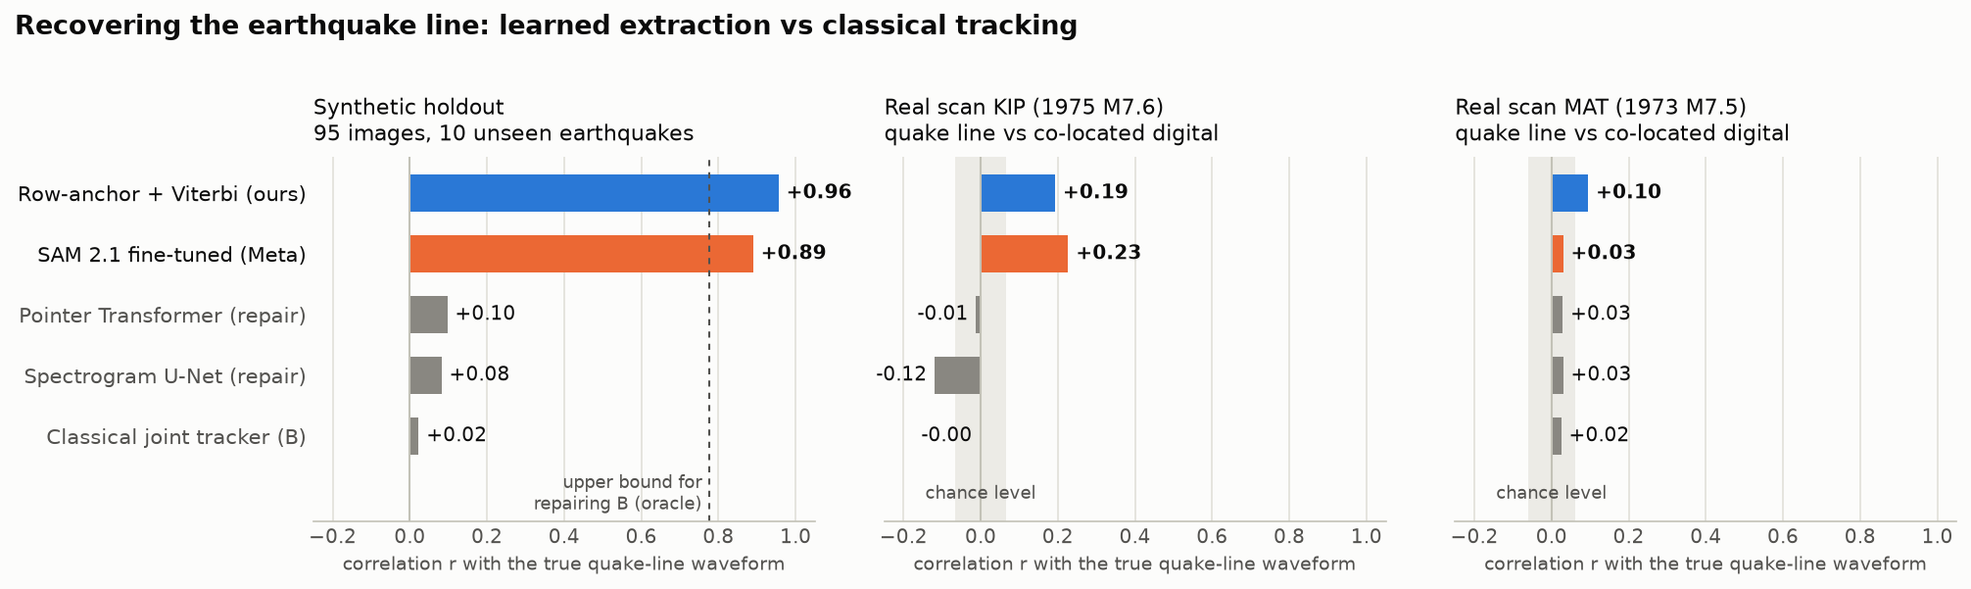
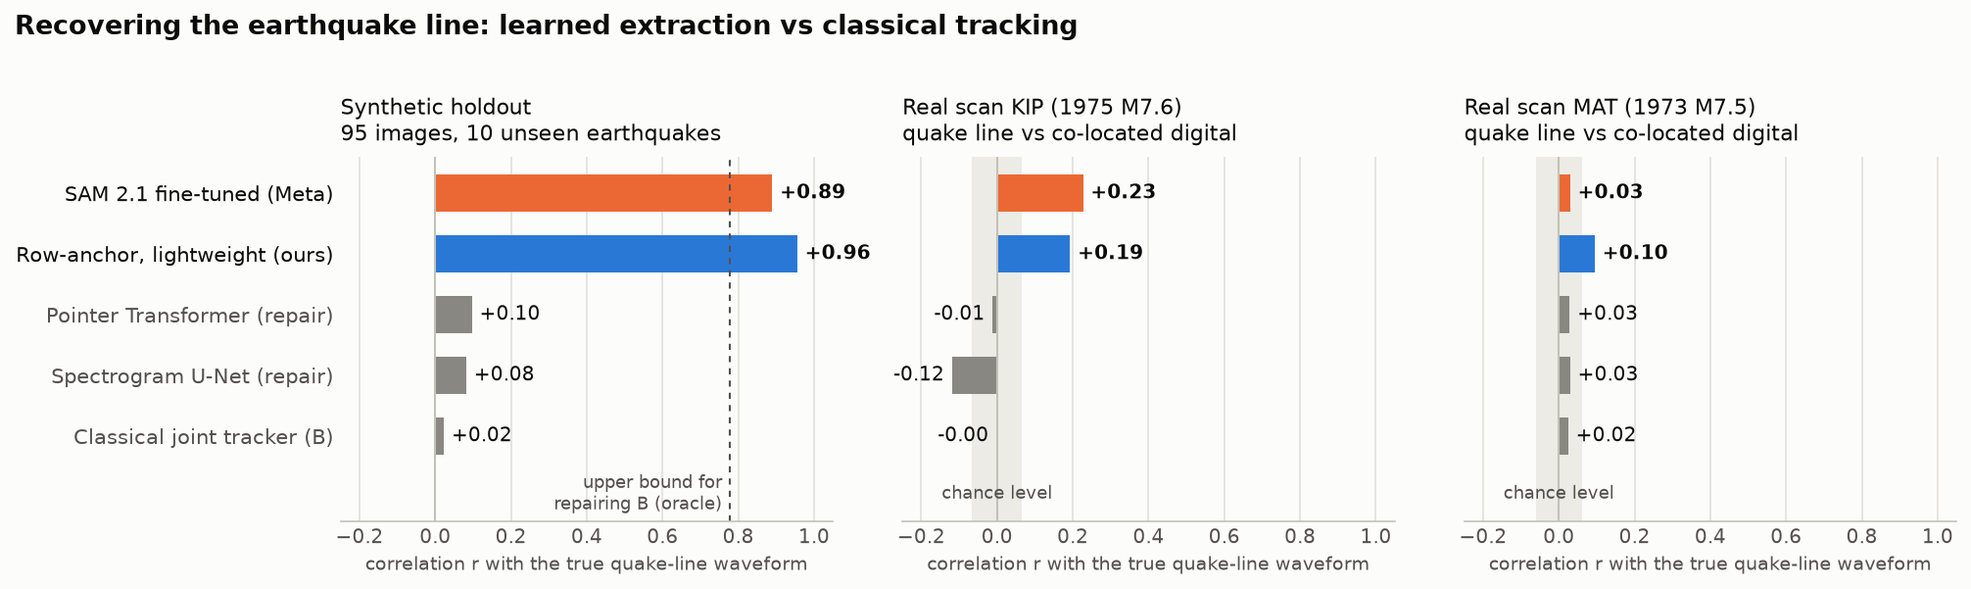
README: lead with Meta models; SAM 3 / 3.1 wording
Put fine-tuned SAM 2.1 first in the hero, tables and charts, present the
row-anchor model as the lightweight second opinion whose disagreements the
Glimmer verifier will judge, and write the planned fine-tune as SAM 3 / 3.1
(SAM 3's single-image point-prompt path; 3.1 compared later).

Claude-Session: https://claude.ai/code/session_01D61mUAeaoMuS9bQ98T1FXu

diff --git a/tools/make_figures.py b/tools/make_figures.py
@@ -22,7 +22,7 @@ THEMES = {
     "dark": {"surface": "#1a1a19", "text": "#f0efec", "text2": "#c3c2b7", "muted": "#898781", "grid": "#2c2c2a",
              "axis": "#383835", "ra": "#3987e5", "sam": "#d95926", "glim": "#199e70", "band": "#262624"},
 }
-METHODS = [("row_anchor", "Row-anchor + Viterbi (ours)", "ra"), ("sam21", "SAM 2.1 fine-tuned (Meta)", "sam"),
+METHODS = [("sam21", "SAM 2.1 fine-tuned (Meta)", "sam"), ("row_anchor", "Row-anchor, lightweight (ours)", "ra"),
            ("repair_seq", "Pointer Transformer (repair)", "muted"), ("repair_spec", "Spectrogram U-Net (repair)", "muted"),
            ("B", "Classical joint tracker (B)", "muted")]
 
@@ -86,7 +86,7 @@ def chart_amplitude(S, mode):
     t = THEMES[mode]
     syn = S["synthetic_holdout_quake_line"]
     gains = [1, 2, 4, 6, 8]
-    series = [("row_anchor", "Row-anchor + Viterbi", "ra", "o"), ("sam21", "SAM 2.1 fine-tuned", "sam", "s"),
+    series = [("sam21", "SAM 2.1 fine-tuned (Meta)", "sam", "s"), ("row_anchor", "Row-anchor, lightweight (ours)", "ra", "o"),
               ("B", "Classical joint tracker (B)", "muted", "D")]
     fig, axes = plt.subplots(1, 2, figsize=(12, 3.9), facecolor=t["surface"])
     for ax, key, ylab, lim in ((axes[0], "r", "quake-line correlation r", (-0.05, 1.05)),
@@ -114,7 +114,7 @@ def chart_amplitude(S, mode):
     plt.close(fig)
 
 
-BUDGET = [("SAM 3.1 LoRA fine-tunes x3 + evaluation", "A100 80 GB, ~9 GPU-h", 27, "sam"),
+BUDGET = [("SAM 3 / 3.1 LoRA fine-tunes x3 + evaluation", "A100 80 GB, ~9 GPU-h", 27, "sam"),
           ("Muse Glimmer QLoRA: identity verifier + film-chip reader", "H100 80 GB, ~11 GPU-h", 48, "glim"),
           ("Ablations and final evaluation", "A100 80 GB, ~8 GPU-h", 24, "muted"),
           ("Row-anchor sim-to-real sweeps", "our local GPUs", 0, "muted")]
@@ -137,7 +137,7 @@ def chart_budget(mode):
     ax.set_yticks([])
     ax.set_xticks([0, 25, 50, 75, 100], ["$0", "$25", "$50", "$75", "$100"])
     total = sum(b[2] for b in BUDGET)
-    ax.set_title(f"Planned use of a \\$100 Modal credit (about \\${total}): fine-tuning Meta's SAM 3.1 and Muse Glimmer", fontsize=12.5,
+    ax.set_title(f"Planned use of a \\$100 Modal credit (about \\${total}): fine-tuning Meta's SAM 3 / 3.1 and Muse Glimmer", fontsize=12.5,
                  color=t["text"], loc="left", pad=10, fontweight="bold", x=-0.62)
     fig.tight_layout()
     fig.savefig(IMG / f"chart_modal_budget_{mode}.png", dpi=150, bbox_inches="tight", facecolor=t["surface"])

diff --git a/README.ko.md b/README.ko.md
@@ -8,14 +8,14 @@
 **엉킨 아날로그 지진기록을 학습형 궤적 추출과 Meta SAM으로 다시 지진 파형으로 되살립니다.**
 
 <p align="center">
-  <img src="docs/img/hero_rowanchor_vs_classical.png" width="920" alt="지진 줄이 이웃 줄과 교차하는 합성 WWSSN 필름. 학습 모델은 따라가고 고전 추적기는 평평해진다">
+  <img src="docs/img/sam21_holdout_example.png" width="920" alt="합성 WWSSN 필름에서 교차점을 지나며 지진 줄을 따라가는 미세조정 Meta SAM 2.1. 고전 추적기는 평평해진다">
 </p>
-<p align="center"><sub>새 홀드아웃 예시입니다. 모델이 한 번도 보지 못한 지진(2010-04-06, M7.8)의 실제 II.RAYN 기록으로 렌더링한 합성 WWSSN 장주기 필름이고, 최대 흔들림은 줄 간격 8개입니다.
-<b>초록</b>: 정답. <b>빨강</b>: 우리 행 기준점 모델. <b>파랑</b>: 가장 좋은 고전 추적기. 지진 줄이 이웃 줄과 교차하기 시작하면 바로 줄을 잃습니다.</sub></p>
+<p align="center"><sub>새 홀드아웃 예시입니다. <b>미세조정한 Meta SAM 2.1</b>을, 모델이 한 번도 보지 못한 지진(2009-10-07, M7.7)의 실제 IU.MAJO 기록으로 렌더링한 합성 WWSSN 장주기 필름에 적용했습니다. 최대 흔들림은 줄 간격 4개입니다.
+<b>초록</b>: 정답. <b>빨강</b>: SAM 2.1. 교차점을 지나도 줄을 잃지 않고, 남은 오류는 가장 가파른 획의 꼭대기가 잘리는 것입니다. <b>파랑</b>: 가장 좋은 고전 추적기. 지진 줄이 이웃 줄과 교차하기 시작하면 바로 줄을 잃습니다.</sub></p>
 
 > [!IMPORTANT]
 > **Modal 크레딧으로 할 수 있게 되는 것: Meta 오픈 웨이트 모델 두 개가 파이프라인의 핵심 경로로 들어옵니다.**
-> - **SAM 3.1을 LoRA로 미세조정**해 핵심 궤적 추출기로 씁니다. 미세조정한 SAM 2.1이 시뮬레이션에서 이미 지진 줄 실패율을 55%에서 12%로 줄였습니다.
+> - **SAM 3 / 3.1을 LoRA로 미세조정**해 핵심 궤적 추출기로 씁니다. 미세조정한 SAM 2.1이 시뮬레이션에서 이미 지진 줄 실패율을 55%에서 12%로 줄였습니다.
 > - **Muse Glimmer(30B)를 QLoRA로 미세조정**해 모든 교차점의 줄 식별 검증기이자 필름 라벨 판독기로 씁니다. 벤치마크에서 자동으로 만든 라벨 예제로 무제한 학습합니다.
 > - 두 모델 모두 우리 로컬 GPU(M5 Pro 24 GB, RTX 5070 Ti 16 GB)에 들어가지 않습니다. 계획상 **$100 크레딧 중 약 $99**를 A100·H100 시간에 씁니다. **[전체 계획과 예산](#modal-크레딧으로-할-일)**을 참고하세요.
 
@@ -23,18 +23,18 @@
 
 - **문제.** 1962–1978년 WWSSN(세계 표준 지진 관측망)은 전 세계의 큰 지진을 사진 필름에 기록했습니다. USGS는 2025년에 필름칩 스캔을 CC0로 공개했습니다. 그런데 자동 디지털화는 신호가 가장 중요한 곳에서 무너집니다. 지진 줄이 이웃 줄 여러 개를 가로질러 수백 번 교차하고, 가파른 획은 필름에서 흐려지기 때문입니다.
 - **벤치마크.** 큰 지진 32개(M7.5–8.8)의 실제 기록으로, 줄마다 정확한 정답이 있는 합성 WWSSN 장주기 필름을 만들었습니다. 기하는 실제 필름에 맞췄습니다. 1 px/초, 한 줄 1시간, 줄 간격당 38초입니다(실제 필름은 40–47초). 같은 자리에 디지털 관측소가 있던 실제 필름 스캔 2장도 찾아, 실제 정답으로 씁니다.
-- **시뮬레이션 결과.** 새 홀드아웃(95장, 처음 보는 지진 10개, 방법마다 고정 후 한 번만 평가)에서 두 학습 모델이 지진 줄을 복원합니다. 지표는 지진 줄 상관계수 r과 실패율입니다.
-  - 우리 **행 기준점 모델**: r **0.96**, 실패율 2.0%
-  - **미세조정한 Meta SAM 2.1**: r **0.89**, 실패율 12.0%
+- **시뮬레이션 결과.** 새 홀드아웃(95장, 처음 보는 지진 10개, 방법마다 고정 후 한 번만 평가)에서 학습 모델이 지진 줄을 복원합니다. 지표는 지진 줄 상관계수 r과 실패율입니다.
+  - **미세조정한 Meta SAM 2.1**: r **0.89**, 실패율 **12.0%** (고전 추적기 55%)
+  - SAM의 독립적인 두 번째 의견인 가벼운 **행 기준점 모델**(매개변수 88만 개): r 0.96, 실패율 2.0%
   - 가장 좋은 고전 추적기: r 0.02, 실패율 55%
   - 고전 추적 결과를 사후에 고치는 방식은 스펙트로그램 U-Net을 포함해 모두 실패했습니다(r 약 0.1).
 - **실제 필름의 솔직한 현황.** 실제 지진 줄은 **아직 풀지 못했습니다.** KIP r 0.19–0.23, MAT r 0.03–0.10이고, 우연 수준은 약 0.06입니다. 진폭이 중간인 줄에서는 MAT에서 이미 학습 모델이 고전 추적기를 앞섭니다(r 0.57–0.63 대 0.01). 남은 차이는 합성과 실제의 겉모습 차이로 보고 있고, 이를 줄이는 것이 다음 단계입니다([Modal 크레딧으로 할 일](#modal-크레딧으로-할-일) 참고).
 - **Meta 모델.**
   - Muse Spark 1.3(Meta Model API)은 도구를 쓰는 지진학자 에이전트이자 교차 판정자로 실행했습니다. 단순 규칙을 이기지 못했다는 결과도 그대로 보고합니다.
   - SAM 3.1(Meta Model API)은 제로샷으로 시험했습니다. 선이 빽빽하게 닿는 구간에서는 인스턴스를 하나도 찾지 못해, 미세조정으로 방향을 잡았습니다.
-  - SAM 2.1 오픈 웨이트를 미세조정한 모델이 위 두 학습 추출기 중 하나입니다.
+  - SAM 2.1 오픈 웨이트를 미세조정한 모델이 위의 주 학습 추출기입니다.
   - **다음 단계, Modal 크레딧으로:**
-    - **SAM 3.1**을 핵심 추출기로 미세조정합니다.
+    - **SAM 3 / 3.1**을 핵심 추출기로 미세조정합니다.
     - **Muse Glimmer**(30B, 오픈 웨이트)를 QLoRA로 미세조정해, 교차점의 줄 식별 검증기와 필름 라벨 판독기로 씁니다.
     - 두 역할 모두 파이프라인의 핵심입니다([Modal 크레딧으로 할 일](#modal-크레딧으로-할-일) 참고).
 
@@ -47,8 +47,8 @@
 
 | 방법 (지진 줄) | 합성 홀드아웃 r | 합성 실패율 % | 실제 KIP r | 실제 MAT r |
 |---|---|---|---|---|
-| **행 기준점 + 비터비** (우리 방법, 매개변수 88만 개) | **0.96** | **2.0** | 0.19 | **0.10** |
 | **SAM 2.1 hiera-tiny 미세조정** (Meta 오픈 웨이트) | 0.89 | 12.0 | **0.23** | 0.03 |
+| **행 기준점 + 비터비** (가벼운 두 번째 의견 모델, 매개변수 88만 개) | **0.96** | **2.0** | 0.19 | **0.10** |
 | B의 경로를 고치는 포인터 Transformer | 0.10 | 22.5 | −0.01 | 0.03 |
 | B의 경로를 고치는 스펙트로그램 U-Net | 0.08 | 22.5 | −0.12 | 0.03 |
 | 고전 다중 추적기 (B, 학습 없는 방법 중 최고) | 0.02 | 55.0 | −0.00 | 0.02 |
@@ -74,9 +74,9 @@
 두 학습 모델은 진폭이 줄 간격 8개까지 커져도 r 0.80 이상을 유지합니다. 고전 추적기는 어떤 진폭에서도 파형을 복원하지 못합니다(r 0.08 이하).
 
 <p align="center">
-  <img src="docs/img/sam21_holdout_example.png" width="760" alt="홀드아웃 기록에서 지진 줄을 따라가는 미세조정 SAM 2.1">
+  <img src="docs/img/hero_rowanchor_vs_classical.png" width="760" alt="홀드아웃 기록에서 줄 간격 8개 흔들림을 따라가는 가벼운 행 기준점 모델">
 </p>
-<p align="center"><sub>홀드아웃 기록에서 미세조정한 SAM 2.1(2009-10-07 M7.7, IU.MAJO, 줄 간격 4개). 초록: 정답, 빨강: SAM 2.1, 파랑: 고전 추적기. SAM은 교차점을 지나도 줄을 잃지 않습니다. 남은 오류는 가장 가파른 획의 꼭대기가 잘리는 것입니다.</sub></p>
+<p align="center"><sub>독립적인 두 번째 의견인 가벼운 행 기준점 모델이 줄 간격 8개 흔들림을 따라가는 모습입니다(2010-04-06 M7.8, II.RAYN). 초록: 정답, 빨강: 행 기준점, 파랑: 고전 추적기. SAM과 행 기준점 모델이 엇갈리는 곳이 바로 Glimmer 검증기가 판정할 곳입니다.</sub></p>
 
 ## 왜 어려운가: 그림 한 장
 
@@ -94,14 +94,14 @@
 <p align="center"><sub>마쓰시로(MAT) 관측소의 실제 WWSSN 장주기 수직 성분 필름입니다. 1973-12-28 M7.5 바누아투 지진이며, USGS WWSSN 시범 스캔 사업의 EarthScope 필름칩 제품입니다. 이 제품은 USGS CC0 공개본의 일부로 문서화되어 있지만, 파일 단위로 대조하지는 않았습니다. 정답은 EarthScope FDSN의 HG.MAT 자료입니다. 위: 추출 경로를 겹친 스캔(빨강: 행 기준점, 파랑: 고전 B, 주황: DP 정렬 도구). 아래: 같은 자리 HGLP 디지털 관측소의 대역 통과 정답(검정)과 추출 결과.
 본진 줄의 참 흔들림은 줄 간격 4–6개이고, 모델은 그 일부만 따라갑니다.</sub></p>
 
-| 실제 스캔, 줄 종류별 r | 행 기준점 | SAM 2.1 미세조정 | 고전 B | DP 정렬 도구 |
+| 실제 스캔, 줄 종류별 r | SAM 2.1 미세조정 | 행 기준점 | 고전 B | DP 정렬 도구 |
 |---|---|---|---|---|
-| MAT 지진 줄 (14) | **0.10** | 0.03 | 0.02 | −0.04 |
-| MAT 이웃 줄 (13, 15) | 0.04 | −0.04 | 0.02 | **0.08** |
-| MAT 다른 활성 줄 (7줄) | **0.63** | 0.57 | 0.01 | 0.49 |
-| KIP 지진 줄 (16) | 0.19 | **0.23** | −0.00 | 0.09 |
-| KIP 이웃 줄 (15, 17) | **0.17** | 0.12 | 0.02 | 0.14 |
-| KIP 다른 활성 줄 (5줄) | 0.18 | 0.15 | 0.10 | **0.32** |
+| MAT 지진 줄 (14) | 0.03 | **0.10** | 0.02 | −0.04 |
+| MAT 이웃 줄 (13, 15) | −0.04 | 0.04 | 0.02 | **0.08** |
+| MAT 다른 활성 줄 (7줄) | 0.57 | **0.63** | 0.01 | 0.49 |
+| KIP 지진 줄 (16) | **0.23** | 0.19 | −0.00 | 0.09 |
+| KIP 이웃 줄 (15, 17) | 0.12 | **0.17** | 0.02 | 0.14 |
+| KIP 다른 활성 줄 (5줄) | 0.15 | 0.18 | 0.10 | **0.32** |
 
 실제 필름 성능을 막는다고 보는 요인입니다. 아직 가설이며, 지금 시험하고 있습니다.
 1. 실제 필름에서는 가파른 획이 거의 보이지 않습니다. 우리 렌더러가 그리는 것보다 흐립니다.
@@ -112,19 +112,19 @@
 
 <picture>
   <source media="(prefers-color-scheme: dark)" srcset="docs/img/chart_modal_budget_dark.png">
-  <img src="docs/img/chart_modal_budget_light.png" alt="$100 Modal 크레딧 사용 계획: SAM 3.1 $27, Glimmer $48, 평가 $24, 로컬 반복 학습 $0">
+  <img src="docs/img/chart_modal_budget_light.png" alt="$100 Modal 크레딧 사용 계획: SAM 3 / 3.1 $27, Glimmer $48, 평가 $24, 로컬 반복 학습 $0">
 </picture>
 
-| | **SAM 3.1 미세조정** | **Muse Glimmer 미세조정** |
+| | **SAM 3 / 3.1 미세조정** | **Muse Glimmer 미세조정** |
 |---|---|---|
-| **파이프라인에서의 역할** | 모든 줄의 핵심 궤적 추출기. 행 기준점 모델과 앙상블합니다. | (1) **줄 식별 검증기**: 추출기들이 엇갈리는 교차점마다 진짜 경로를 고르거나, 사람 검토가 필요하다고 표시합니다. (2) **필름 라벨 판독기**: 관측소, 날짜, 시작 시각, 시계 보정을 읽어 시간 정렬의 출발점으로 씁니다. |
-| **방법** | SAM 2.1 때와 같은 고정-홀드아웃 절차로, 전체 해상도 LoRA를 학습합니다. | 벤치마크에서 렌더링하고 정확한 정답으로 라벨을 붙인 교차 구간 예제로 무제한 QLoRA 학습합니다. |
+| **파이프라인에서의 역할** | 모든 줄의 핵심 궤적 추출기. 가벼운 행 기준점 모델은 독립적인 두 번째 의견으로 남습니다. | (1) **줄 식별 검증기**: 추출기들이 엇갈리는 교차점마다 진짜 경로를 고르거나, 사람 검토가 필요하다고 표시합니다. (2) **필름 라벨 판독기**: 관측소, 날짜, 시작 시각, 시계 보정을 읽어 시간 정렬의 출발점으로 씁니다. |
+| **방법** | SAM 3의 정지 영상 점 프롬프트 경로를 전체 해상도 LoRA로 학습합니다(코드 준비 완료, 무작위 가중치로 시험). SAM 3.1의 변경점은 영상 다중 객체 추적이라, 공식 학습 경로가 갖춰지면 비교합니다. SAM 2.1 때와 같은 고정-홀드아웃 절차입니다. | 벤치마크에서 렌더링하고 정확한 정답으로 라벨을 붙인 교차 구간 예제로 무제한 QLoRA 학습합니다. |
 | **Modal이 필요한 이유** | 전체 해상도 LoRA에는 A100/H100급 메모리가 필요합니다. | 4-bit 가중치가 약 18 GB로, 우리 16 GB GPU보다 큽니다. QLoRA는 H100 1장에서 되는 것으로 문서화되어 있습니다. |
 | **성공 기준** | 처음 보는 지진으로 된 새 홀드아웃에서 미세조정 SAM 2.1(r 0.89)을 넘을 것. 실제 스캔 r도 보고합니다. | 검증기: 처음 보는 지진에서 학습한 로지스틱 판정자보다 기록 단위 정확도가 높을 것. 판독기: 사람이 확인한 라벨 대비 항목 정확도. |
 | **예산 (추정)** | 약 $27: A100 80 GB, 약 9 GPU 시간, 3회 학습 + 평가 | 약 $48: H100 80 GB, 약 11 GPU 시간, 2–3회 학습 + 평가 |
 
 목표 파이프라인은 Meta 모델을 핵심 경로에 둡니다.
-- **SAM 3.1**과 행 기준점 모델이 모든 줄을 추출합니다.
+- **SAM 3 / 3.1**이 모든 줄을 추출하고, 가벼운 행 기준점 모델이 독립적인 두 번째 의견을 냅니다.
 - 둘이 엇갈리는 곳에서는 **Glimmer**가 줄 식별을 검증하고, 필름 라벨도 읽습니다.
 - **Muse Spark**가 전체를 지휘하고 지진학 보고서를 씁니다.
 
@@ -136,7 +136,7 @@ Modal 작업과 함께 진행하는 일:
   - 잰 범위 안에서 렌더러를 무작위화하고, 작은 행 기준점 모델을 로컬에서 다시 학습합니다.
   - 새 홀드아웃으로 시험한 뒤, 실제 짝 기록으로 한 번 평가합니다.
 - **실제 정답 늘리기.** WWSSN ↔ HGLP/SRO 짝(ALQ, CTA, CHG 등)을 더 모읍니다.
-- **공개.** 디지털화 CLI, 벤치마크 생성기, 미세조정한 SAM 3.1·Glimmer 어댑터를 공개합니다. Glimmer는 직접 호스팅하므로, USGS 아카이브 18.9만 장을 호출당 API 비용 없이 처리할 수 있습니다.
+- **공개.** 디지털화 CLI, 벤치마크 생성기, 미세조정한 SAM 3 / 3.1·Glimmer 어댑터를 공개합니다. Glimmer는 직접 호스팅하므로, USGS 아카이브 18.9만 장을 호출당 API 비용 없이 처리할 수 있습니다.
 
 **예산 계산 방법.**
 - Modal 정가(2026-10-27 확인): A100 80 GB 시간당 $2.50, H100 $3.95. CPU 4코어와 메모리 32 GB에 시간당 약 $0.44가 더 듭니다.
@@ -149,29 +149,29 @@ Modal 작업과 함께 진행하는 일:
 flowchart LR
   W["실제 광대역 기록<br/>IRIS/EarthScope, IU + II<br/>지진 32개 M7.5–8.8"] --> R["필름 렌더러<br/>한 줄 1시간, 1 px/초, 줄 간격 38 px,<br/>분 표시, 흐려짐, 종이 질감<br/><b>줄마다 정확한 정답</b>"]
   R --> T["학습 / 검증<br/>지진 단위 분할"]
-  T --> RA["행 기준점 모델<br/>CNN + 시간축 Transformer,<br/>열마다 행 구간 200개 + 비터비"]
+  T --> RA["행 기준점 모델 (두 번째 의견)<br/>CNN + 시간축 Transformer,<br/>열마다 행 구간 200개 + 비터비"]
   T --> S["SAM 2.1 미세조정<br/>LoRA, 점 프롬프트,<br/>창 이어 붙이기 + 비터비"]
   RA --> H["새 홀드아웃<br/>고정 후 한 번만 평가"]
   S --> H
   RA --> P["같은 자리 디지털 관측소와<br/>짝을 이룬 실제 스캔"]
   S --> P
-  T -.-> S3["SAM 3.1 LoRA<br/>(다음 단계, Modal)"]
+  T -.-> S3["SAM 3 / 3.1 LoRA<br/>(다음 단계, Modal)"]
   RA -.-> GL["Muse Glimmer QLoRA<br/>줄 식별 검증 + 필름 라벨 판독<br/>(다음 단계, Modal)"]
   S3 -.-> GL
   P --> SP["Muse Spark 지진학자 에이전트<br/>(카탈로그, TauP, 위상 판독, 보고서)"]
 ```
 
-- **행 기준점 모델** (우리 방법, [`scripts/ml_rowanchor.py`](scripts/ml_rowanchor.py))
-  - 입력: 표적 줄의 기준선을 가운데 둔 ±10.5 줄 간격 범위를 절반 해상도로 잘라 씁니다. 여기에 시작 힌트 채널을 더합니다. 첫 열에서 그 줄의 위치로, 고전 추적기가 받는 시작 정보와 같습니다.
-  - 작은 CNN이 행 방향을 압축하고, 4층 Transformer가 시간축을 따라 앞뒤 맥락을 봅니다.
-  - 열마다 4 px 크기의 행 구간 200개 중 하나로 분류합니다. 비터비 디코딩에는 학습 데이터에서 배운 이동 확률을 씁니다.
-  - 학습 때는 다른 기록을 표적 위아래에 이어 붙여, 잘라낸 이미지가 실제 24줄 필름처럼 보이게 합니다.
-  - 매개변수는 88만 개이고, Apple M5 Pro(MPS)에서 52분 학습했습니다.
 - **SAM 2.1 미세조정** ([`scripts/ml_sam.py`](scripts/ml_sam.py))
   - SAM 2.1 hiera-tiny의 단일 이미지 경로를 순수 PyTorch로 다시 구현했습니다. 공식 가중치가 키와 모양 검사를 엄격하게 통과해 그대로 로드됩니다.
   - 트렁크에 LoRA를 적용하고, 마스크 디코더를 학습합니다.
   - 창 하나는 전체 높이 × 256열이고 1024²로 늘립니다. 첫 창은 시작점으로, 이후 창은 지금까지 디코딩한 경로 위의 점 4개로 프롬프트합니다. 창들은 비터비로 이어 붙입니다.
   - MPS에서 45분 학습했습니다.
+- **행 기준점 모델** (우리 방법, 가벼운 두 번째 의견 모델, [`scripts/ml_rowanchor.py`](scripts/ml_rowanchor.py))
+  - 입력: 표적 줄의 기준선을 가운데 둔 ±10.5 줄 간격 범위를 절반 해상도로 잘라 씁니다. 여기에 시작 힌트 채널을 더합니다. 첫 열에서 그 줄의 위치로, 고전 추적기가 받는 시작 정보와 같습니다.
+  - 작은 CNN이 행 방향을 압축하고, 4층 Transformer가 시간축을 따라 앞뒤 맥락을 봅니다.
+  - 열마다 4 px 크기의 행 구간 200개 중 하나로 분류합니다. 비터비 디코딩에는 학습 데이터에서 배운 이동 확률을 씁니다.
+  - 학습 때는 다른 기록을 표적 위아래에 이어 붙여, 잘라낸 이미지가 실제 24줄 필름처럼 보이게 합니다.
+  - 매개변수는 88만 개이고, Apple M5 Pro(MPS)에서 52분 학습했습니다.
 - **고전 기준 방법** ([`scripts/track_joint.py`](scripts/track_joint.py), [`scripts/arbiter.py`](scripts/arbiter.py))
   - A는 탐욕 추적기이고, B는 물리 기반 관성 추적을 하는 다중 줄 동시 추적기입니다.
   - A와 B가 엇갈리는 곳에서는 학습한 판정자가 둘 중 하나를 고릅니다.
@@ -187,7 +187,7 @@ flowchart LR
 | **Muse Spark 1.3** (Meta Model API, `muse-spark-1.3-contributor`) | 디지털화된 파형 위에서 도구를 쓰는 지진학자 에이전트입니다. 도구는 지진 카탈로그 + TauP 도달 시간, STA/LTA, AIC 위상 판독기, 그림입니다. 교차점의 A/B 판정자로도 시험했습니다. | 독립된 두 번의 실행이 기록의 93–94%에서 같은 결론을 냈고, 96회 실행에 약 $1.7가 들었습니다. **단순 규칙을 이기지 못했습니다.** P파를 10초 안에 맞힌 비율은 0.67로, 이론 도달 시간의 0.71보다 낮습니다. 교차 판정자로는 가장 강한 판정자 대비 34건을 고치고 60건을 망쳤습니다(기록 단위로는 유의하지 않고, 해로운 쪽 경향). 그래서 Spark는 지휘와 보고를 맡고, 측정은 도구가 합니다. |
 | **SAM 3.1** (Meta Model API) | 제로샷 궤적 분할 | 떨어져 있는 단일 선은 잘 찾습니다. 선이 56–212번 닿는 구간에서는 **인스턴스 0개**입니다. 한 줄만 흔들리고 접촉이 28–40번이면 그 줄은 따라가지만(실패 0.2% 이하), 조용한 줄을 빠뜨려 전체 줄 기준 실패율은 40–69%입니다. |
 | **SAM 2.1 hiera-tiny** (오픈 웨이트, Apache-2.0) | 미세조정한 프롬프트형 궤적 분할기 | 합성 홀드아웃 r 0.89. 지진 줄 실패율 55% → 12%. 실제 KIP r 0.23. |
-| **SAM 3.1** (오픈 웨이트, 승인제) | **다음 단계(Modal): 핵심 궤적 추출기.** SAM 2.1과 같은 고정-홀드아웃 절차로 LoRA 미세조정한 뒤, 행 기준점 모델과 앙상블합니다. | 계획 |
+| **SAM 3 / 3.1** (오픈 웨이트, 승인제) | **다음 단계(Modal): 핵심 궤적 추출기.** SAM 3의 정지 영상 점 프롬프트 경로를 LoRA로 미세조정합니다(코드 준비 완료, 무작위 가중치로 시험). SAM 3.1은 공식 학습 경로가 갖춰지면 비교합니다. SAM 2.1과 같은 고정-홀드아웃 절차입니다. | 계획 |
 | **Muse Glimmer** (오픈 웨이트, 30B, 이미지+텍스트 입력, Apache-2.0) | **다음 단계(Modal), 두 가지 핵심 역할.** (1) **줄 식별 검증기**: 추출기들이 엇갈리는 모든 교차점에서, 후보 경로를 그린 이미지를 보고 진짜를 고르거나 사람 검토가 필요하다고 표시합니다. 정답이 정확한 우리 벤치마크에서 교차 구간 예제를 자동으로 무제한 만들어 QLoRA로 학습합니다. (2) **필름 라벨 판독기**: 관측소, 날짜, 시작 시각, 시계 보정 라벨을 읽어 스캔마다 시간 정렬의 출발점을 줍니다. 실제 스캔 평가에서 라벨 시각만으로는 부족했으므로, 이 값으로 맞춤 정렬을 시작합니다. 대량 디지털화를 위해 직접 호스팅합니다. | 계획 단계이며 아직 시험하지 않았습니다. 제로샷 Spark는 판정자로 도움이 되지 않았으므로(34건 고침, 60건 망침), 정확한 라벨로 학습할 계획입니다. Glimmer는 4-bit로도 18 GB라 H100이 필요합니다. |
 
 ## 평가 방식

diff --git a/README.md b/README.md
@@ -8,14 +8,14 @@
 **Turning tangled analog seismograms back into earthquake waveforms, with learned trace extraction and Meta's SAM.**
 
 <p align="center">
-  <img src="docs/img/hero_rowanchor_vs_classical.png" width="920" alt="Synthetic WWSSN film with the earthquake line crossing its neighbours; the learned model follows it, the classical tracker goes flat">
+  <img src="docs/img/sam21_holdout_example.png" width="920" alt="Fine-tuned Meta SAM 2.1 following the earthquake line through crossings on a synthetic WWSSN film; the classical tracker goes flat">
 </p>
-<p align="center"><sub>Fresh-holdout example. A synthetic WWSSN long-period film rendered from the real II.RAYN recording of an earthquake the models never saw (2010-04-06, M7.8), peak swing 8 line spacings.
-<b>Green</b>: ground truth. <b>Red</b>: our row-anchor model. <b>Blue</b>: the best classical tracker, which loses the earthquake line as soon as it starts crossing its neighbours.</sub></p>
+<p align="center"><sub>Fresh-holdout example: <b>fine-tuned Meta SAM 2.1</b> on a synthetic WWSSN long-period film rendered from the real IU.MAJO recording of an earthquake the models never saw (2009-10-07, M7.7), peak swing 4 line spacings.
+<b>Green</b>: ground truth. <b>Red</b>: SAM 2.1, which keeps the line's identity through the crossings; its remaining errors are clipped peaks on the steepest strokes. <b>Blue</b>: the best classical tracker, which loses the earthquake line as soon as it starts crossing its neighbours.</sub></p>
 
 > [!IMPORTANT]
 > **What the Modal credits unlock: two Meta open-weight models move into the critical path.**
-> - **SAM 3.1, fine-tuned with LoRA**, becomes the core trace extractor. Our fine-tuned SAM 2.1 already cuts quake-line failures from 55% to 12% in simulation.
+> - **SAM 3 / 3.1, fine-tuned with LoRA**, becomes the core trace extractor. Our fine-tuned SAM 2.1 already cuts quake-line failures from 55% to 12% in simulation.
 > - **Muse Glimmer (30B), fine-tuned with QLoRA**, becomes the trace-identity verifier at every crossing and the film-chip label reader. It is trained on unlimited auto-labelled examples from our benchmark.
 > - Neither model fits our local GPUs (M5 Pro 24 GB, RTX 5070 Ti 16 GB). The plan uses **about $99 of the $100 credit** on A100 and H100 hours. See the **[full plan and budget](#what-the-modal-credits-unlock)**.
 
@@ -23,18 +23,18 @@
 
 - **Problem.** From 1962 to 1978 the World-Wide Standardized Seismograph Network (WWSSN) recorded the world's large earthquakes on photographic film. The USGS released the film-chip scans under CC0 in 2025. Automatic digitization breaks exactly where the signal matters most: the earthquake trace swings across many neighbouring lines, crosses them hundreds of times, and its steep strokes fade on the film.
 - **Benchmark.** We built synthetic WWSSN long-period films with exact per-line ground truth, from real recordings of 32 large earthquakes (M7.5–8.8). The geometry is calibrated to real film: 1 px/s, 1 h per line, 38 s of record per line spacing (real film: 40–47 s). We also found two real film scans with a digital station at the same site, which gives real ground truth.
-- **Result in simulation.** On a fresh holdout (95 images, 10 unseen earthquakes; each method tested once after freezing), two learned extractors recover the earthquake line, measured as quake-line correlation r and failure rate:
-  - Our **row-anchor model**: r **0.96**, 2.0% failure.
-  - **Fine-tuned Meta SAM 2.1**: r **0.89**, 12.0% failure.
+- **Result in simulation.** On a fresh holdout (95 images, 10 unseen earthquakes; each method tested once after freezing), learned extractors recover the earthquake line, measured as quake-line correlation r and failure rate:
+  - **Fine-tuned Meta SAM 2.1**: r **0.89**, failure **12.0%** (classical tracker: 55%).
+  - Our lightweight **row-anchor model** (0.88 M parameters), the independent second opinion for SAM: r 0.96, failure 2.0%.
   - Best classical tracker: r 0.02, 55% failure.
   - Repairing the classical output afterwards, including with a spectrogram U-Net, does not work (r ≈ 0.1).
 - **Honest status on real film.** The real earthquake line is **not solved yet**: r 0.19–0.23 on KIP and 0.03–0.10 on MAT, against a chance level of about 0.06. On lines with moderate amplitude the learned models already beat the classical tracker on MAT: r 0.57–0.63 vs 0.01. We think the remaining gap is sim-to-real appearance, and closing it is the next step (see [What the Modal credits unlock](#what-the-modal-credits-unlock)).
 - **Meta models.**
   - Muse Spark 1.3 (Meta Model API) runs as a tool-using seismologist agent and crossing judge. We report that it did not beat simple rules.
   - SAM 3.1 (Meta Model API) was tested zero-shot. It returns no instances in contact-dense crops, which is why we fine-tune.
-  - SAM 2.1 open weights, fine-tuned, are one of the two learned extractors above.
+  - SAM 2.1 open weights, fine-tuned, are the main learned extractor above.
   - **Next, with Modal credits:**
-    - Fine-tune **SAM 3.1** as the core promptable trace extractor.
+    - Fine-tune **SAM 3 / 3.1** as the core promptable trace extractor.
     - Fine-tune **Muse Glimmer** (30B, open weights) with QLoRA as the trace-identity verifier at crossings and as the film-chip label reader.
     - Both roles are central to the pipeline (see [What the Modal credits unlock](#what-the-modal-credits-unlock)).
 
@@ -47,8 +47,8 @@
 
 | Method (quake line) | Synthetic holdout r | Synthetic failure % | Real KIP r | Real MAT r |
 |---|---|---|---|---|
-| **Row-anchor + Viterbi** (ours, 0.88 M params) | **0.96** | **2.0** | 0.19 | **0.10** |
 | **SAM 2.1 hiera-tiny, fine-tuned** (Meta open weights) | 0.89 | 12.0 | **0.23** | 0.03 |
+| **Row-anchor + Viterbi** (our lightweight second-opinion model, 0.88 M params) | **0.96** | **2.0** | 0.19 | **0.10** |
 | Pointer Transformer that repairs B's paths | 0.10 | 22.5 | −0.01 | 0.03 |
 | Spectrogram U-Net that repairs B's paths | 0.08 | 22.5 | −0.12 | 0.03 |
 | Classical joint tracker (B, our strongest non-learned method) | 0.02 | 55.0 | −0.00 | 0.02 |
@@ -67,9 +67,9 @@
 Both learned models stay at r ≥ 0.80 up to an 8-line-spacing swing. The classical tracker never recovers the waveform at any amplitude (r ≤ 0.08).
 
 <p align="center">
-  <img src="docs/img/sam21_holdout_example.png" width="760" alt="Fine-tuned SAM 2.1 following the earthquake line on a holdout record">
+  <img src="docs/img/hero_rowanchor_vs_classical.png" width="760" alt="Lightweight row-anchor model following an 8-line-spacing swing on a holdout record">
 </p>
-<p align="center"><sub>Fine-tuned SAM 2.1 on a holdout record (2009-10-07 M7.7 at IU.MAJO, 4 line spacings). Green: truth, red: SAM 2.1, blue: classical tracker. SAM keeps the line's identity through the crossings; its remaining errors are clipped peaks on the steepest strokes.</sub></p>
+<p align="center"><sub>The lightweight row-anchor model, our independent second opinion, on an 8-line-spacing swing (2010-04-06 M7.8 at II.RAYN). Green: truth, red: row-anchor, blue: classical tracker. Where SAM and the row-anchor model disagree is exactly where the Glimmer verifier will be asked to decide.</sub></p>
 
 ## Why it is hard: one picture
 
@@ -87,14 +87,14 @@ Both learned models stay at r ≥ 0.80 up to an 8-line-spacing swing. The classi
 <p align="center"><sub>Real WWSSN LP-Z film at Matsushiro (MAT), 1973-12-28 M7.5 Vanuatu earthquake (EarthScope film-chip product from the USGS WWSSN pilot scanning project, which is documented as part of the USGS CC0 release; not verified file by file). Reference: HG.MAT data via EarthScope FDSN. Top: scan with paths overlaid (red: row-anchor, blue: classical B, orange: DP alignment tool). Bottom: band-passed truth from the co-located HGLP digital station (black) against the extractions.
 On the main-shock line the true swing is 4–6 line spacings and the model follows only part of it.</sub></p>
 
-| Real scan, r by line category | Row-anchor | SAM 2.1 ft | Classical B | DP alignment tool |
+| Real scan, r by line category | SAM 2.1 ft | Row-anchor | Classical B | DP alignment tool |
 |---|---|---|---|---|
-| MAT quake line (14) | **0.10** | 0.03 | 0.02 | −0.04 |
-| MAT neighbours (13, 15) | 0.04 | −0.04 | 0.02 | **0.08** |
-| MAT other active lines (7 lines) | **0.63** | 0.57 | 0.01 | 0.49 |
-| KIP quake line (16) | 0.19 | **0.23** | −0.00 | 0.09 |
-| KIP neighbours (15, 17) | **0.17** | 0.12 | 0.02 | 0.14 |
-| KIP other active lines (5 lines) | 0.18 | 0.15 | 0.10 | **0.32** |
+| MAT quake line (14) | 0.03 | **0.10** | 0.02 | −0.04 |
+| MAT neighbours (13, 15) | −0.04 | 0.04 | 0.02 | **0.08** |
+| MAT other active lines (7 lines) | 0.57 | **0.63** | 0.01 | 0.49 |
+| KIP quake line (16) | **0.23** | 0.19 | −0.00 | 0.09 |
+| KIP neighbours (15, 17) | 0.12 | **0.17** | 0.02 | 0.14 |
+| KIP other active lines (5 lines) | 0.15 | 0.18 | 0.10 | **0.32** |
 
 What we believe limits real-film performance. These are hypotheses and are being tested now:
 1. Steep strokes are nearly invisible on real film, fainter than our renderer draws them.
@@ -105,19 +105,19 @@ What we believe limits real-film performance. These are hypotheses and are being
 
 <picture>
   <source media="(prefers-color-scheme: dark)" srcset="docs/img/chart_modal_budget_dark.png">
-  <img src="docs/img/chart_modal_budget_light.png" alt="Planned use of the $100 Modal credit: SAM 3.1 $27, Glimmer $48, evaluation $24, local sweeps $0">
+  <img src="docs/img/chart_modal_budget_light.png" alt="Planned use of the $100 Modal credit: SAM 3 / 3.1 $27, Glimmer $48, evaluation $24, local sweeps $0">
 </picture>
 
-| | **SAM 3.1 fine-tune** | **Muse Glimmer fine-tune** |
+| | **SAM 3 / 3.1 fine-tune** | **Muse Glimmer fine-tune** |
 |---|---|---|
-| **Role in the pipeline** | Core trace extractor for every line, ensembled with the row-anchor model | (1) **Identity verifier**: at each crossing where the extractors disagree, picks the true continuation or flags the segment for human review. (2) **Film-chip reader**: station, date, start time and clock corrections, to seed the time alignment |
-| **How** | LoRA at full resolution, with the same frozen-holdout protocol as our SAM 2.1 run | QLoRA on unlimited crossing crops rendered from our benchmark and labelled by its exact ground truth |
+| **Role in the pipeline** | Core trace extractor for every line; the lightweight row-anchor model stays as the independent second opinion | (1) **Identity verifier**: at each crossing where the extractors disagree, picks the true continuation or flags the segment for human review. (2) **Film-chip reader**: station, date, start time and clock corrections, to seed the time alignment |
+| **How** | LoRA at full resolution on SAM 3's single-image point-prompt path (code ready, tested with random weights); SAM 3.1, whose change is video multi-object tracking, is compared once its official training path is set up. Same frozen-holdout protocol as our SAM 2.1 run | QLoRA on unlimited crossing crops rendered from our benchmark and labelled by its exact ground truth |
 | **Why it needs Modal** | Full-resolution LoRA needs A100/H100-class memory | 4-bit weights are about 18 GB, more than our 16 GB GPU. QLoRA is documented for one H100 |
 | **Success criterion** | Beats fine-tuned SAM 2.1 (r 0.89) on a fresh holdout of unseen earthquakes; real-scan r reported | Verifier: higher record-level accuracy than our learned logistic judge on unseen earthquakes. Reader: field accuracy on hand-checked labels |
 | **Budget (est.)** | ~$27: A100 80 GB, ~9 GPU-hours, 3 runs + evaluation | ~$48: H100 80 GB, ~11 GPU-hours, 2–3 runs + evaluation |
 
 The target pipeline puts Meta models in the critical path:
-- **SAM 3.1** and the row-anchor model extract every line.
+- **SAM 3 / 3.1** extracts every line, and the lightweight row-anchor model gives an independent second opinion.
 - **Glimmer** verifies line identity where they disagree and reads the film labels.
 - **Muse Spark** orchestrates the run and writes the seismological report.
 
@@ -129,7 +129,7 @@ Alongside the Modal work:
   - Randomize the renderer over those ranges and retrain the small row-anchor model locally.
   - Test on a new fresh holdout, then once on the real pairs.
 - **More real ground truth.** More WWSSN ↔ HGLP/SRO pairs (ALQ, CTA, CHG, …).
-- **Release.** A digitize CLI, the benchmark generator, and the fine-tuned SAM 3.1 and Glimmer adapters. Glimmer runs self-hosted, so the 189k-scan USGS archive can be processed without per-call API cost.
+- **Release.** A digitize CLI, the benchmark generator, and the fine-tuned SAM 3 / 3.1 and Glimmer adapters. Glimmer runs self-hosted, so the 189k-scan USGS archive can be processed without per-call API cost.
 
 **How the budget was computed.**
 - Modal list prices, checked 2026-10-27: A100 80 GB $2.50/h, H100 $3.95/h, plus about $0.44/h for 4 CPU cores and 32 GB of memory.
@@ -142,29 +142,29 @@ Alongside the Modal work:
 flowchart LR
   W["Real broadband records<br/>IRIS/EarthScope, IU + II<br/>32 earthquakes M7.5–8.8"] --> R["Film renderer<br/>1 h/line, 1 px/s, 38 px spacing,<br/>minute marks, fading, paper texture<br/><b>exact per-line ground truth</b>"]
   R --> T["Train / validate<br/>split by earthquake"]
-  T --> RA["Row-anchor model<br/>CNN + Transformer over time,<br/>200 row bins/column + Viterbi"]
+  T --> RA["Row-anchor model (second opinion)<br/>CNN + Transformer over time,<br/>200 row bins/column + Viterbi"]
   T --> S["SAM 2.1 fine-tune<br/>LoRA, point prompts,<br/>stitched windows + Viterbi"]
   RA --> H["Fresh holdout<br/>frozen, run once"]
   S --> H
   RA --> P["Real scans paired with<br/>co-located digital stations"]
   S --> P
-  T -.-> S3["SAM 3.1 LoRA<br/>(next, Modal)"]
+  T -.-> S3["SAM 3 / 3.1 LoRA<br/>(next, Modal)"]
   RA -.-> GL["Muse Glimmer QLoRA<br/>identity verifier + film-chip reader<br/>(next, Modal)"]
   S3 -.-> GL
   P --> SP["Muse Spark seismologist agent<br/>(catalog, TauP, picks, report)"]
 ```
 
-- **Row-anchor model** (ours; [`scripts/ml_rowanchor.py`](scripts/ml_rowanchor.py)).
-  - Input: a crop of ±10.5 line spacings centred on the target line's baseline at half resolution, plus a start-hint channel (the line's position in its first column, the same start information the classical trackers get).
-  - A small CNN pools the rows; a 4-layer Transformer runs along time.
-  - Every column is classified into 200 row bins of 4 px. Viterbi decoding uses a step prior learned from training data.
-  - Training composites stack other records above and below the target, so crops look like a full 24-line film.
-  - 0.88 M parameters; 52 min of training on an Apple M5 Pro (MPS).
 - **SAM 2.1 fine-tune** ([`scripts/ml_sam.py`](scripts/ml_sam.py)).
   - The single-image path of SAM 2.1 hiera-tiny is re-implemented in plain PyTorch, and the official weights load with strict key and shape checks.
   - LoRA is applied to the trunk, and the mask decoder is trained.
   - Each window is the full height × 256 columns, resized to 1024². The first window is prompted with the start point; later windows get 4 points from the path decoded so far. A Viterbi pass stitches the windows.
   - 45 min of training on MPS.
+- **Row-anchor model** (ours, the lightweight second opinion; [`scripts/ml_rowanchor.py`](scripts/ml_rowanchor.py)).
+  - Input: a crop of ±10.5 line spacings centred on the target line's baseline at half resolution, plus a start-hint channel (the line's position in its first column, the same start information the classical trackers get).
+  - A small CNN pools the rows; a 4-layer Transformer runs along time.
+  - Every column is classified into 200 row bins of 4 px. Viterbi decoding uses a step prior learned from training data.
+  - Training composites stack other records above and below the target, so crops look like a full 24-line film.
+  - 0.88 M parameters; 52 min of training on an Apple M5 Pro (MPS).
 - **Classical baselines** ([`scripts/track_joint.py`](scripts/track_joint.py), [`scripts/arbiter.py`](scripts/arbiter.py)).
   - A is a greedy tracker. B is a joint multi-line tracker with physics-based coasting.
   - A learned judge picks between A and B where they disagree.
@@ -178,7 +178,7 @@ flowchart LR
 | **Muse Spark 1.3** (Meta Model API, `muse-spark-1.3-contributor`) | Tool-using seismologist agent over digitized traces: event catalog + TauP travel times, STA/LTA, AIC picker, plots. Also tested as an A/B judge at trace crossings. | Two independent runs agree on 93–94% of records; about $1.7 per 96-run pass. It **did not beat simple rules**: P-arrival within 10 s 0.67 vs 0.71 for theoretical travel times. As a crossing judge it fixed 34 and broke 60 events on the strongest judge (not significant at the record level, trend toward harm). Spark therefore orchestrates and reports; measurement is done by tools. |
 | **SAM 3.1** (Meta Model API) | Zero-shot trace segmentation | Fine on isolated lines. Returns **0 instances** in crops where lines touch 56–212 times. With one active line and 28–40 contacts it follows that line (≤ 0.2% failure) but drops the quiet lines (40–69% failure over all lines). |
 | **SAM 2.1 hiera-tiny** (open weights, Apache-2.0) | Fine-tuned promptable trace segmenter | Synthetic holdout r 0.89. Quake-line failure 55% → 12%. Real KIP r 0.23. |
-| **SAM 3.1** (open weights, gated) | **Next (Modal): the core trace extractor.** LoRA fine-tune with the same frozen-holdout protocol as SAM 2.1, then ensemble with the row-anchor model | Planned |
+| **SAM 3 / 3.1** (open weights, gated) | **Next (Modal): the core trace extractor.** LoRA fine-tune of SAM 3's single-image point-prompt path (code ready, tested with random weights); SAM 3.1 compared once its official training path is set up. Same frozen-holdout protocol as SAM 2.1 | Planned |
 | **Muse Glimmer** (open weights, 30B, image + text input, Apache-2.0) | **Next (Modal), two key roles.** (1) **Trace-identity verifier**: at every crossing where extractors disagree, Glimmer sees the candidate continuations drawn on the crop and picks the true one, or flags the segment for human review. It is QLoRA-trained on unlimited auto-labelled crossing crops from our benchmark, which has exact ground truth. (2) **Film-chip reader**: reads the station, date, start time and clock-correction labels to seed each scan's time alignment (in our real-scan evaluation the label times alone were not enough, so they initialise the fitted alignment), self-hosted for bulk digitization | Planned and untested. Zero-shot Spark did not help as a judge (fixed 34, broke 60), so we will train on exact labels instead. Glimmer is 18 GB even in 4-bit, so it needs an H100 |
 
 ## Evaluation protocol
